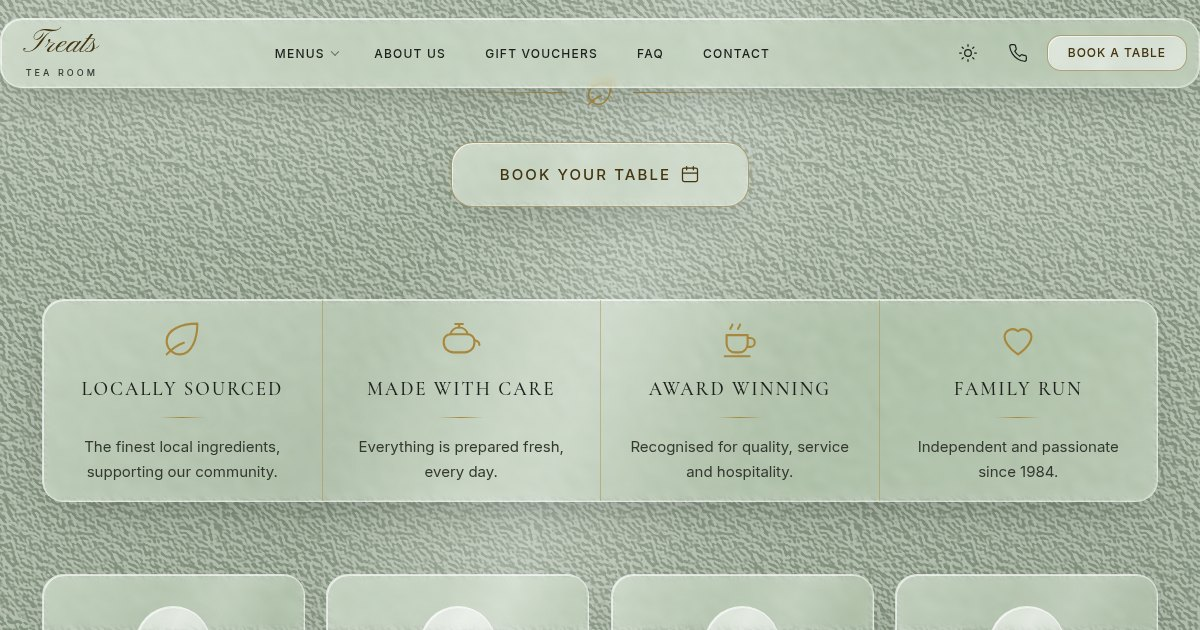
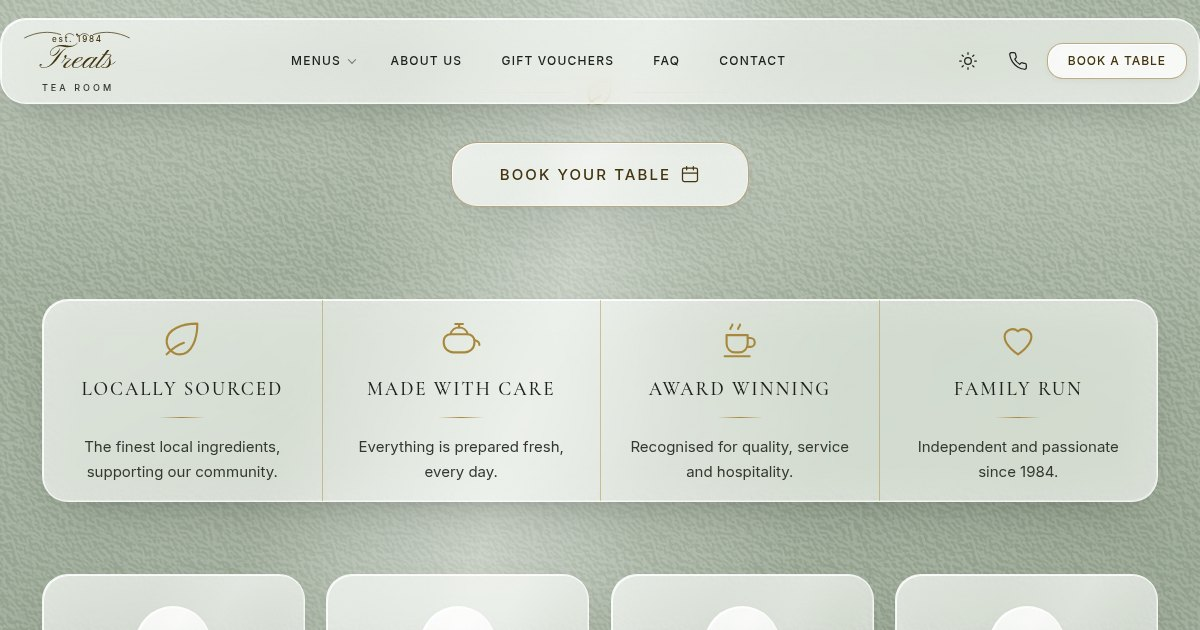
Refine the ground, panels and wordmark against the reference
Ground — the nap was reading as leather grain rather than suede seen across
a room. The fibre tile is now a whisper (spread 0.5 to 0.17), a large very
low contrast tile carries the soft unevenness of the pile, and the broad beam
of light across the upper right is much stronger.

Panels — these were pushed too transparent and had taken on the sage. They
are frosted *white* glass again: fill 13% to 46%, blur 5px to 14px, brighter
rim, rounder corners (22px to 26px) and a softer wider float shadow. The
dropdown no longer needs a special denser fill.

Wordmark — rebuilt as the lockup in the reference: a flourish with 'est.
1984' above the script word, 'TEA ROOM' letterspaced beneath. It stays live
text, so it is crisp at any size and readable to search engines; the year
follows the Customizer setting. Uploading a real logo file under Customize →
Site Identity still replaces the whole lockup.

42 interaction tests, 15 form tests, axe-core clean across 9 pages in light
and dark at desktop and mobile, no horizontal overflow at 390px, CLS 0.

Claude-Session: https://claude.ai/code/session_01LcKYmv3upvNB5rMB9MPRc2

diff --git a/treats-tea-room/css/main.css b/treats-tea-room/css/main.css
@@ -69,22 +69,23 @@
 	--c-header-bg: transparent;
 
 	/* Glass */
-	/* A low blur is what makes this read as glass rather than as a milky
-	   fill: enough to soften the nap behind, not enough to erase it. */
-	--glass-bg: rgba(255, 255, 255, 0.13);
-	--glass-bg-strong: rgba(255, 255, 255, 0.22);
-	--glass-border: rgba(255, 255, 255, 0.55);
-	--glass-blur: 5px;
-	--glass-filter: blur(var(--glass-blur)) saturate(150%) brightness(1.05);
-	/* The tint and the specular streak across the pane. */
+	/* Frosted white glass: enough white to sit clearly above the sage, with
+	   a moderate blur so the nap behind stays suggested rather than sharp. */
+	--glass-bg: rgba(255, 255, 255, 0.46);
+	--glass-bg-strong: rgba(255, 255, 255, 0.58);
+	--glass-border: rgba(255, 255, 255, 0.75);
+	--glass-blur: 14px;
+	--glass-filter: blur(var(--glass-blur)) saturate(125%) brightness(1.04);
+	/* A soft sheen falling across the pane, brightest at the upper left. */
 	--glass-sheen:
-		linear-gradient(118deg, transparent 28%, rgba(255, 255, 255, 0.2) 43%, rgba(255, 255, 255, 0.03) 57%, transparent 70%),
-		linear-gradient(135deg, rgba(255, 255, 255, 0.26) 0%, rgba(255, 255, 255, 0.04) 42%, rgba(255, 255, 255, 0.02) 62%, rgba(255, 255, 255, 0.14) 100%);
+		linear-gradient(118deg, transparent 26%, rgba(255, 255, 255, 0.22) 44%, rgba(255, 255, 255, 0.04) 58%, transparent 72%),
+		linear-gradient(150deg, rgba(255, 255, 255, 0.3) 0%, rgba(255, 255, 255, 0.06) 45%, rgba(255, 255, 255, 0.16) 100%);
 	--glass-shadow:
-		0 16px 44px -20px rgba(35, 45, 33, 0.4),
-		inset 1px 1px 0 rgba(255, 255, 255, 0.62),
-		inset -1px -1px 0 rgba(255, 255, 255, 0.18),
-		inset 0 0 26px rgba(255, 255, 255, 0.1);
+		0 22px 50px -26px rgba(48, 58, 45, 0.42),
+		0 2px 10px -4px rgba(48, 58, 45, 0.12),
+		inset 1px 1px 0 rgba(255, 255, 255, 0.85),
+		inset -1px -1px 0 rgba(255, 255, 255, 0.35),
+		inset 0 0 40px rgba(255, 255, 255, 0.22);
 
 	--shadow-xs: 0 1px 2px rgba(35, 45, 33, 0.06);
 	--shadow-sm: 0 4px 14px -8px rgba(35, 45, 33, 0.25);
@@ -137,10 +138,10 @@
 	--t-header-h: 84px;
 
 	/* Radii — soft, generous, matching the glass panels */
-	--r-sm: 8px;
-	--r-md: 14px;
-	--r-lg: 22px;
-	--r-xl: 28px;
+	--r-sm: 10px;
+	--r-md: 16px;
+	--r-lg: 26px;
+	--r-xl: 32px;
 	--r-pill: 999px;
 
 	/* Motion */
@@ -176,10 +177,10 @@
 		--c-on-accent: #232a22;
 		--c-scrim: rgba(8, 11, 8, 0.7);
 
-		--glass-bg: rgba(255, 255, 255, 0.05);
-		--glass-bg-strong: rgba(255, 255, 255, 0.09);
-		--glass-border: rgba(255, 255, 255, 0.22);
-		--glass-filter: blur(var(--glass-blur)) saturate(140%) brightness(1.14);
+		--glass-bg: rgba(255, 255, 255, 0.08);
+		--glass-bg-strong: rgba(255, 255, 255, 0.13);
+		--glass-border: rgba(255, 255, 255, 0.24);
+		--glass-filter: blur(var(--glass-blur)) saturate(130%) brightness(1.12);
 		--glass-sheen:
 			linear-gradient(118deg, transparent 28%, rgba(255, 255, 255, 0.12) 43%, rgba(255, 255, 255, 0.02) 57%, transparent 70%),
 			linear-gradient(135deg, rgba(255, 255, 255, 0.14) 0%, rgba(255, 255, 255, 0.02) 45%, rgba(255, 255, 255, 0.08) 100%);
@@ -212,10 +213,10 @@
 	--c-on-accent: #232a22;
 	--c-scrim: rgba(8, 11, 8, 0.7);
 
-	--glass-bg: rgba(255, 255, 255, 0.05);
-	--glass-bg-strong: rgba(255, 255, 255, 0.09);
-	--glass-border: rgba(255, 255, 255, 0.22);
-	--glass-filter: blur(var(--glass-blur)) saturate(140%) brightness(1.14);
+	--glass-bg: rgba(255, 255, 255, 0.08);
+	--glass-bg-strong: rgba(255, 255, 255, 0.13);
+	--glass-border: rgba(255, 255, 255, 0.24);
+	--glass-filter: blur(var(--glass-blur)) saturate(130%) brightness(1.12);
 	--glass-sheen:
 		linear-gradient(118deg, transparent 28%, rgba(255, 255, 255, 0.12) 43%, rgba(255, 255, 255, 0.02) 57%, transparent 70%),
 		linear-gradient(135deg, rgba(255, 255, 255, 0.14) 0%, rgba(255, 255, 255, 0.02) 45%, rgba(255, 255, 255, 0.08) 100%);
@@ -3502,22 +3503,22 @@ pre {
 
 /* --- The ground ------------------------------------------------------- */
 
-/* Suede is a napped surface: short fibres catching the light from one
-   direction over a soft, uneven pile. Two seamless greyscale tiles carry
-   that: one seamless greyscale fibre tile, blended over the sage with
-   `soft-light` so it reads as light and shade rather than as grey noise. It
-   is a pre-rendered image — the same effect built from live SVG filters cost
-   several hundred milliseconds of paint time.
+/* Suede read across a room is mostly smooth: a whisper of nap, a soft
+   unevenness in the pile, and a broad beam of light falling across it. Two
+   seamless greyscale tiles carry the first two, blended with `soft-light` so
+   they add light and shade rather than colour; the beam and the pooling sit
+   on a viewport-fixed layer so they belong to the room rather than scrolling
+   with the page.
 
-   The tile repeats down the page with the content. The larger pooling of
-   light belongs to the room rather than the page, so it lives on a
-   viewport-fixed layer below everything; `background-attachment: fixed`
-   would repaint the whole blended stack on every scroll frame. */
+   Both tiles are pre-rendered — the same effect built from live SVG filters
+   cost roughly 200ms of extra paint time on every view. */
 body {
 	background-color: var(--c-bg);
-	background-image: url("../images/texture-suede.png");
-	background-blend-mode: soft-light;
-	background-size: 320px 320px;
+	background-image:
+		url("../images/texture-suede.png"),
+		url("../images/texture-suede-cloud.png");
+	background-blend-mode: soft-light, soft-light;
+	background-size: 320px 320px, 760px 760px;
 	background-repeat: repeat;
 	background-attachment: scroll;
 }
@@ -3529,13 +3530,14 @@ body::before {
 	z-index: -1;
 	pointer-events: none;
 	background-image:
-		/* the sheen sweeping across the upper right */
-		linear-gradient(112deg, transparent 36%, rgba(255, 255, 255, 0.26) 51%, rgba(255, 255, 255, 0.04) 63%, transparent 71%),
-		/* the soft pooling of light suede always has */
-		radial-gradient(58% 44% at 16% 10%, rgba(255, 255, 255, 0.2), transparent 70%),
-		radial-gradient(48% 38% at 84% 28%, rgba(255, 255, 255, 0.14), transparent 70%),
-		radial-gradient(64% 52% at 28% 78%, rgba(96, 110, 93, 0.1), transparent 72%),
-		radial-gradient(54% 46% at 90% 92%, rgba(96, 110, 93, 0.09), transparent 72%);
+		/* the broad beam falling across the upper right */
+		linear-gradient(108deg, transparent 30%, rgba(255, 255, 255, 0.4) 47%, rgba(255, 255, 255, 0.14) 58%, transparent 70%),
+		/* soft pooling of light and shade in the pile */
+		radial-gradient(70% 55% at 12% 6%, rgba(255, 255, 255, 0.26), transparent 72%),
+		radial-gradient(55% 45% at 88% 22%, rgba(255, 255, 255, 0.2), transparent 72%),
+		radial-gradient(60% 50% at 30% 80%, rgba(255, 255, 255, 0.12), transparent 72%),
+		radial-gradient(70% 55% at 22% 92%, rgba(104, 118, 100, 0.14), transparent 74%),
+		radial-gradient(60% 50% at 94% 88%, rgba(104, 118, 100, 0.12), transparent 74%);
 }
 
 /* --- The panel -------------------------------------------------------- */
@@ -3820,18 +3822,16 @@ body::before {
 
 @media (min-width: 1080px) {
 	.sub-menu {
-		/* A floating menu needs to stay readable, so it is denser than the
-		   structural panels. */
-		background-color: rgba(255, 255, 255, 0.62);
+		background-color: var(--glass-bg-strong);
 		background-image: var(--glass-sheen);
 		border-color: var(--glass-border);
 		border-radius: var(--r-md);
-		backdrop-filter: blur(14px) saturate(140%);
-		-webkit-backdrop-filter: blur(14px) saturate(140%);
+		backdrop-filter: var(--glass-filter);
+		-webkit-backdrop-filter: var(--glass-filter);
 	}
 
 	:root[data-theme="dark"] .sub-menu {
-		background-color: rgba(30, 36, 29, 0.86);
+		background-color: rgba(30, 36, 29, 0.9);
 	}
 
 	.sub-menu .nav__link {
@@ -4456,4 +4456,40 @@ body::before {
 
 .ornament .icon {
 	stroke-width: 1.1;
+}
+
+/* --- The wordmark ----------------------------------------------------- */
+
+/* A flourish, the script word, and a letterspaced line beneath — the
+   arrangement of the approved logo. It is live text rather than an image, so
+   it stays crisp at any size and is readable to search engines. Uploading a
+   real logo file under Customize → Site Identity replaces the whole lockup. */
+.site-logo__flourish {
+	display: flex;
+	flex-direction: column;
+	align-items: center;
+	gap: 0;
+	color: var(--gold);
+	margin-bottom: -0.15rem;
+}
+
+.site-logo__flourish svg {
+	width: clamp(84px, 9vw, 116px);
+	height: auto;
+	opacity: 0.9;
+}
+
+.site-logo__est {
+	font-family: var(--font-sans);
+	font-size: 0.5rem;
+	font-weight: 500;
+	letter-spacing: 0.22em;
+	text-indent: 0.22em;
+	text-transform: lowercase;
+	color: var(--gold);
+	margin-top: -0.5rem;
+}
+
+.site-footer .site-logo__flourish svg {
+	width: 108px;
 }

diff --git a/treats-tea-room/inc/template-tags.php b/treats-tea-room/inc/template-tags.php
@@ -498,15 +498,24 @@ function treats_the_logo( $class = '' ) {
 	}
 	?>
 	<a class="site-logo site-logo--wordmark <?php echo esc_attr( $class ); ?>" href="<?php echo esc_url( home_url( '/' ) ); ?>" rel="home">
-		<span class="site-logo__mark" aria-hidden="true">
-			<svg viewBox="0 0 44 44" width="40" height="40" fill="none" aria-hidden="true">
-				<circle cx="22" cy="22" r="21" stroke="currentColor" stroke-width="1"/>
-				<path d="M13 18h14v6a7 7 0 0 1-7 7 7 7 0 0 1-7-7v-6Z" stroke="currentColor" stroke-width="1.4" stroke-linejoin="round"/>
-				<path d="M27 19.5h1.8a2.7 2.7 0 0 1 0 5.4H27" stroke="currentColor" stroke-width="1.4"/>
-				<path d="M17 14.5c0-1.4 1-1.6 1-2.8M20 14.5c0-1.4 1-1.6 1-2.8M23 14.5c0-1.4 1-1.6 1-2.8" stroke="currentColor" stroke-width="1.2" stroke-linecap="round"/>
-			</svg>
-		</span>
 		<span class="site-logo__text">
+			<span class="site-logo__flourish" aria-hidden="true">
+				<svg viewBox="0 0 132 18" width="132" height="18" fill="none" aria-hidden="true" focusable="false">
+					<path d="M2 12c14-7 30-9 44-4M130 12c-14-7-30-9-44-4" stroke="currentColor" stroke-width="1" stroke-linecap="round"/>
+					<path d="M52 9c3-3 7-3 10 0M70 9c3-3 7-3 10 0" stroke="currentColor" stroke-width="0.9" stroke-linecap="round"/>
+					<circle cx="66" cy="8" r="1.4" fill="currentColor"/>
+				</svg>
+				<?php
+				$founded = trim( (string) get_theme_mod( 'treats_seo_founding_year', '1984' ) );
+
+				if ( '' !== $founded ) {
+					printf(
+						'<span class="site-logo__est">%s</span>',
+						esc_html( sprintf( /* translators: %s: year established. */ __( 'est. %s', 'treats' ), $founded ) )
+					);
+				}
+				?>
+			</span>
 			<span class="site-logo__name"><?php echo esc_html( get_theme_mod( 'treats_logo_script', 'Treats' ) ); ?></span>
 			<span class="site-logo__tag"><?php echo esc_html( get_theme_mod( 'treats_logo_tagline', __( 'Tea Room', 'treats' ) ) ); ?></span>
 			<span class="screen-reader-text"><?php echo esc_html( $name ); ?></span>
